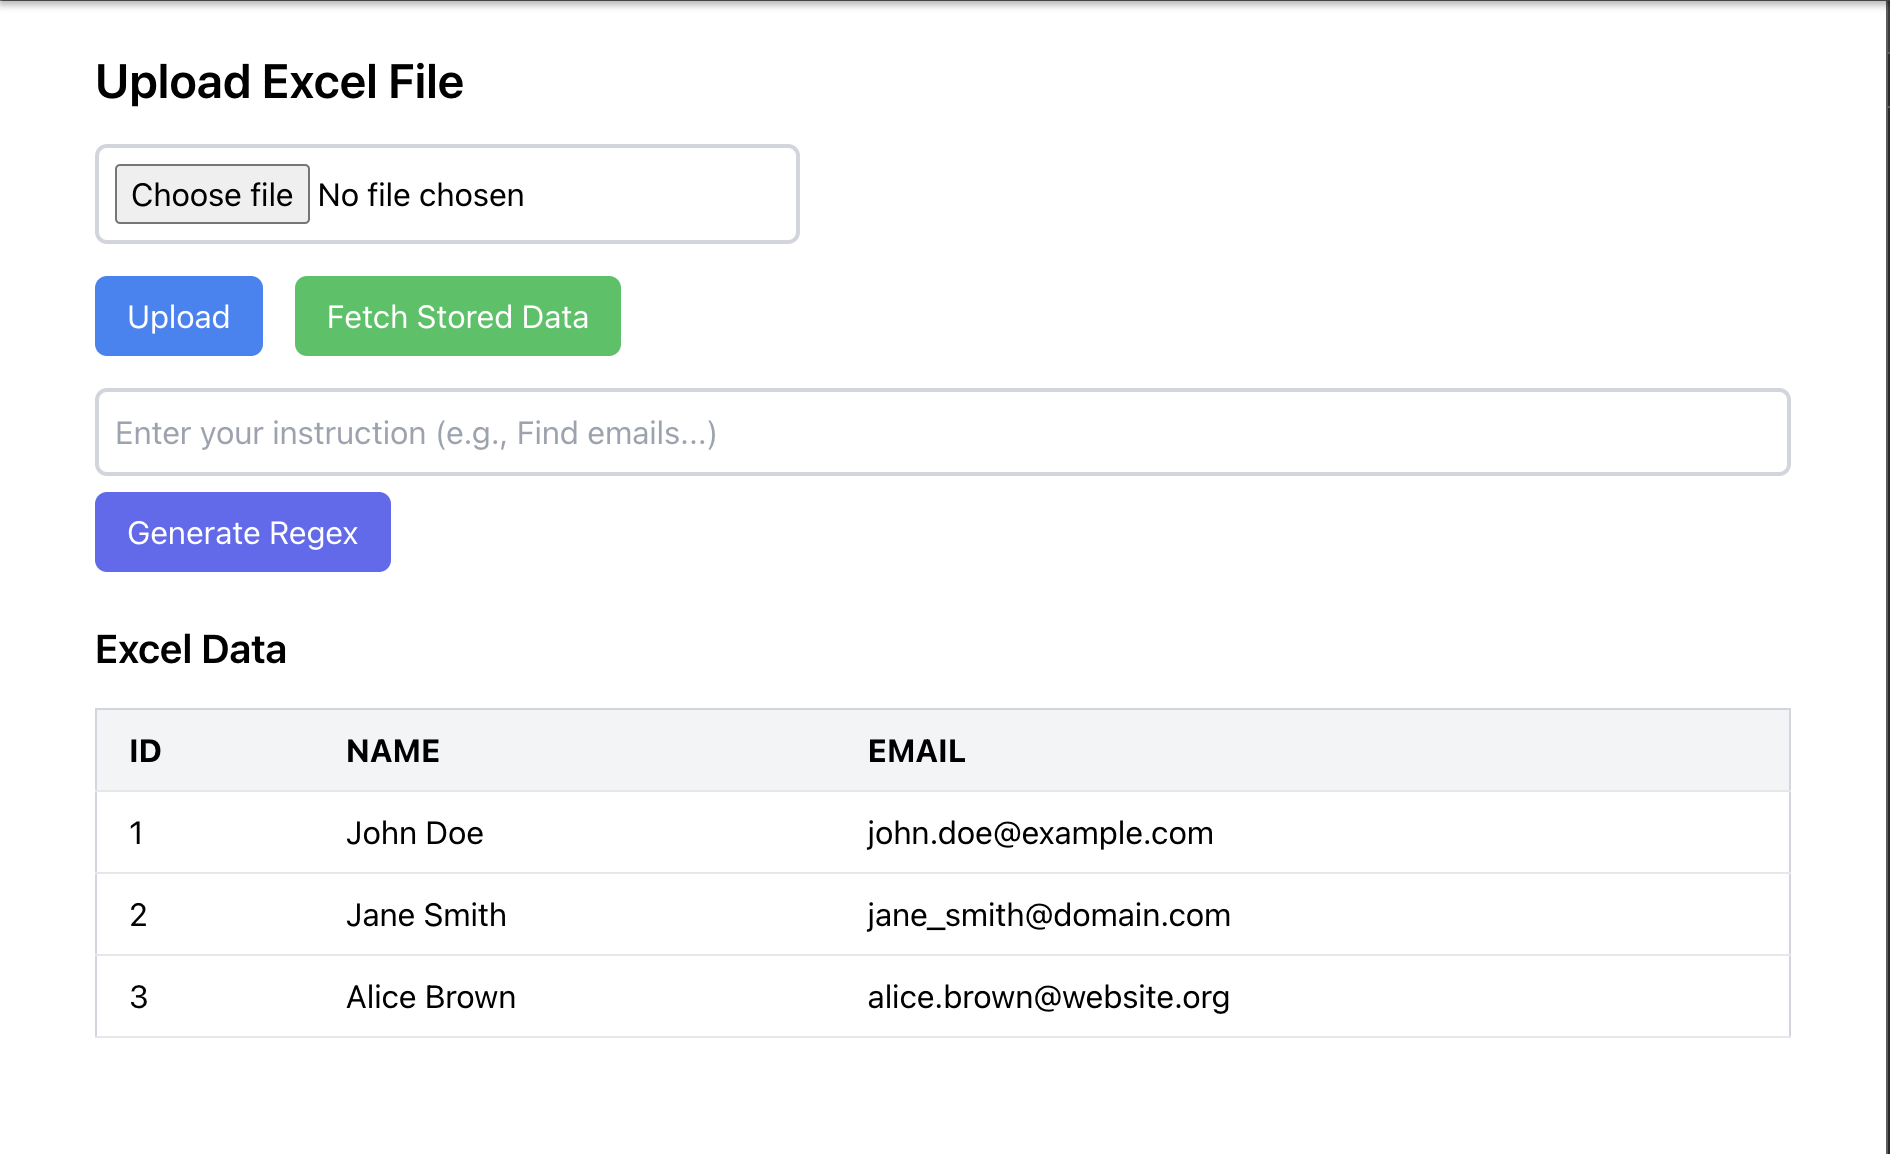
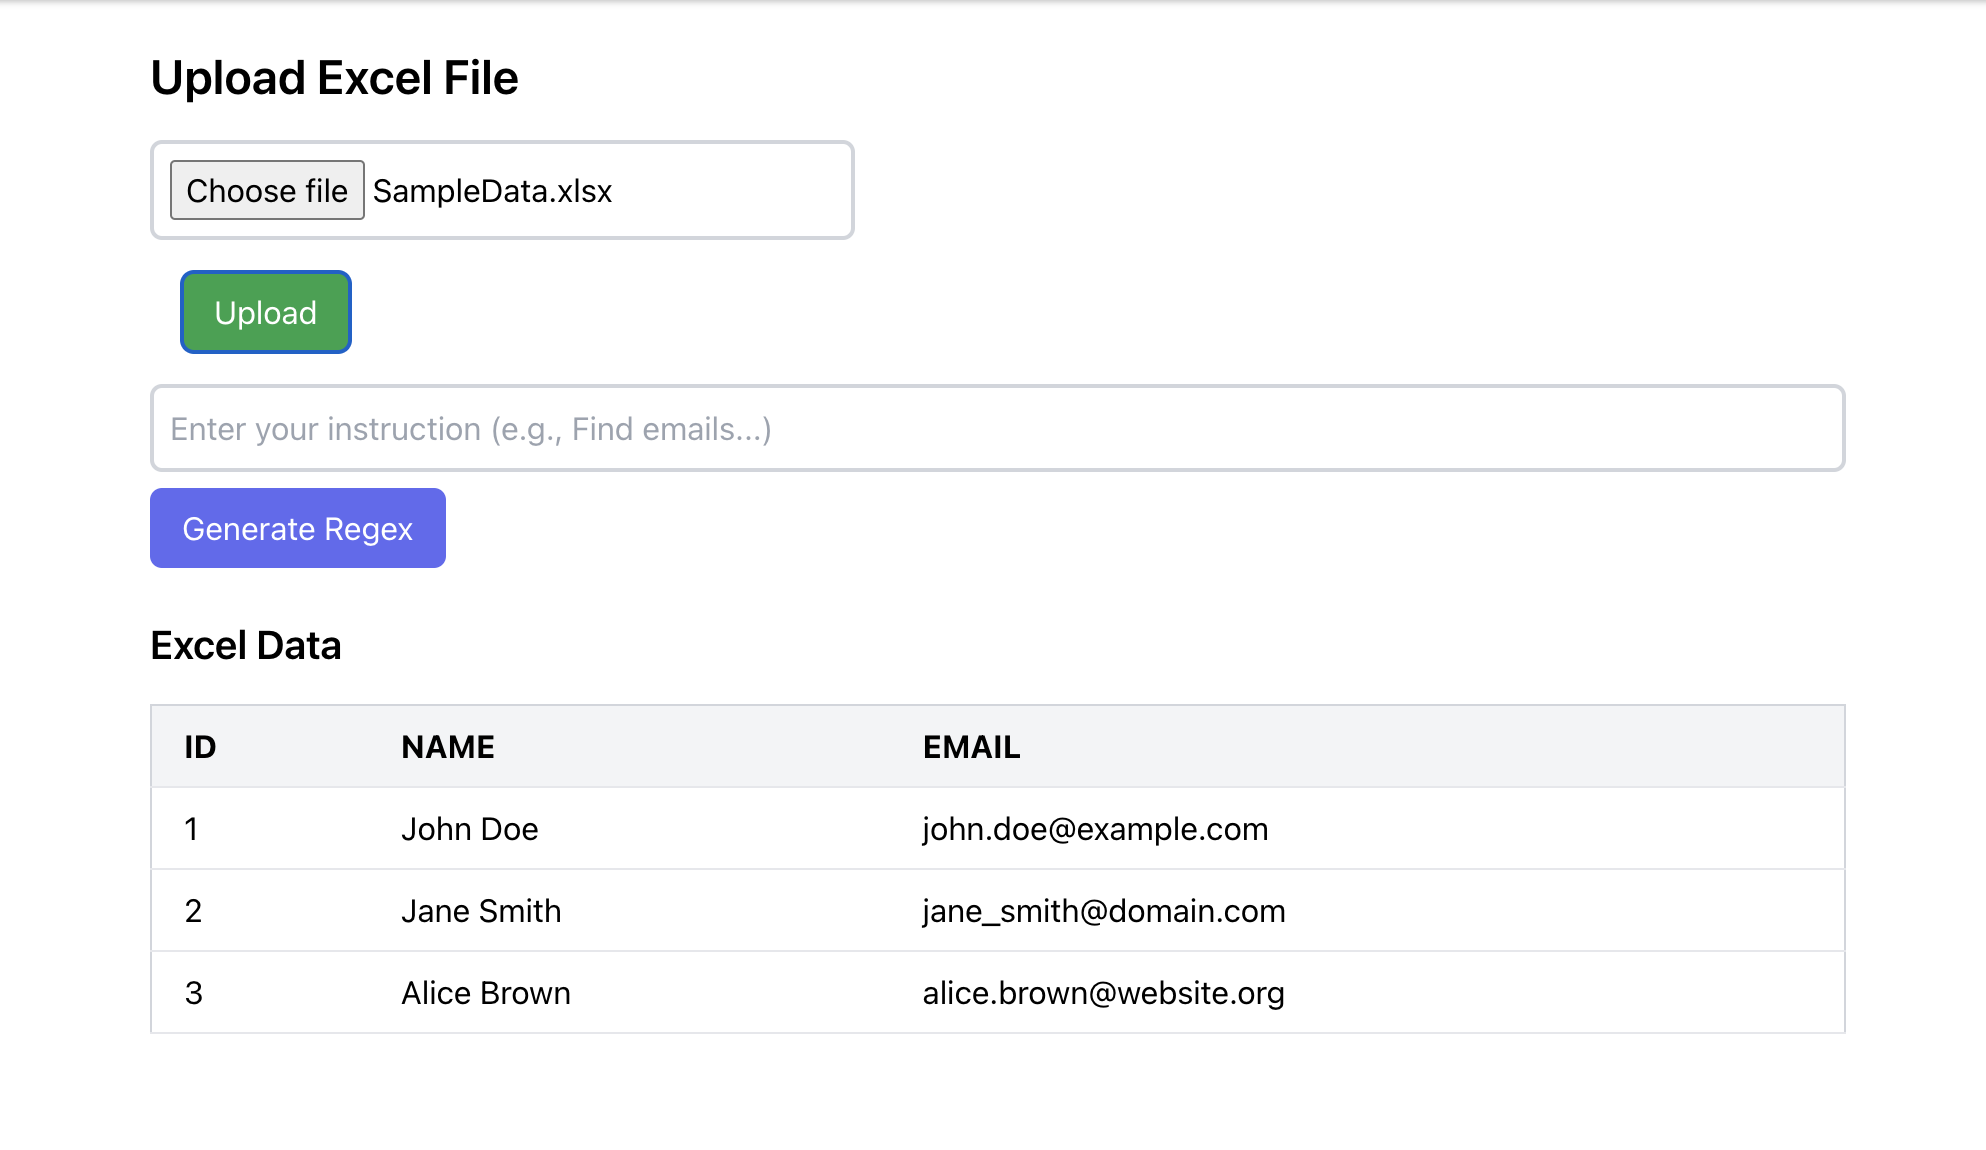
Refactored prompt, structured the README.md file, removed commented out code

diff --git a/frontend/src/App.js b/frontend/src/App.js
@@ -23,19 +23,25 @@ function App() {
             const res = await axios.post('http://127.0.0.1:8000/upload/', formData, {
                 headers: { 'Content-Type': 'multipart/form-data' },
             });
-            setData(res.data.data);
+
+            if (typeof(res.data.data) != "undefined") {
+                setData(res.data.data);
+            }
+            else {
+                let jsonString = res.data;
+                let fixedJsonString = jsonString.replace(/NaN/g, "null");
+                try {
+                    let jsonData = JSON.parse(fixedJsonString);
+                    setData(jsonData.data);
+                } catch (error) {
+                    console.error("Error parsing JSON:", error);
+                }
+            }
+            
         } catch (error) {
             console.error(error);
         }
     };
-
-    // const fetchData = async () => {
-    //     setRegex("");
-    //     setReplace("");
-    //     setIsTextVisible(false);
-    //     const res = await axios.get('http://127.0.0.1:8000/data/');
-    //     setData(res.data.data);
-    // };
 
     const handleGenerateRegex = async () => {
         setLoading(true);
@@ -100,18 +106,6 @@ function App() {
                 >
                     Upload
                 </button>
-                {/* <button 
-                    onClick={uploadFile} 
-                    className="bg-blue-500 text-white py-2 px-4 rounded-md hover:bg-blue-600"
-                >
-                    Upload
-                </button> */}
-                {/* <button 
-                    onClick={fetchData} 
-                    className="ml-4 bg-green-500 text-white py-2 px-4 rounded-md hover:bg-green-600"
-                >
-                    Fetch Stored Data
-                </button> */}
             </div>
 
             <div className="mb-4">

diff --git a/backend/regexapp/views.py b/backend/regexapp/views.py
@@ -48,18 +48,6 @@ def upload_excel(request):
 
     default_storage.delete(file_path)
     return JsonResponse({'data': data_store})
-
-
-@api_view(['GET'])
-def get_stored_data(request):
-    return JsonResponse({'data': data_store})
-
-def is_valid_regex(pattern):
-    try:
-        re.compile(pattern)
-        return True
-    except re.error:
-        return False
     
 @csrf_exempt
 def generate_regex(request):
@@ -129,10 +117,10 @@ def generate_regex_from_desc(description, model="mistral"):
     print("Waiting for Regex Response...")
     
     prompt = (
-        f"I want you to act as a regex generator. Your role is to convert the following natural language query to a regular expression with valid word boundary '\b' (regex):{description}"
+        f"I want you to act as a regex generator. Your role is to convert the following natural language query to a regular expression with valid word boundary on both ends '\b <your_regex> \b' (regex):{description}"
         f"You should provide the regular expressions in a format that can be easily copied and pasted into a regex-enabled text editor or programming language. Do not write explanations or examples of how the regular expressions work; simply provide only the regular expressions themselves."
         f"Provide only the regex pattern as your response, without any explanation or additional text. Regex should be strictly valid without double backslashes or domain matching issues!"
-        f"Return the response strictly in JSON format as: {{'regex_pattern': '<your_regex>'}} and no other explanation in the response."
+        f"Return the response strictly in JSON format as: {{'regex_pattern': '\b<your_regex>\b'}} and no other explanation in the response. Regex should have word boundary on both sides!"
     )
     
     response = ollama.chat(model=model, messages=[

diff --git a/backend/backend/urls.py b/backend/backend/urls.py
@@ -16,10 +16,9 @@ Including another URLconf
 """
 from django.contrib import admin
 from django.urls import path
-from regexapp.views import upload_excel, get_stored_data, generate_regex
+from regexapp.views import upload_excel, generate_regex
 
 urlpatterns = [
     path('upload/', upload_excel, name='upload_excel'),
-    path('data/', get_stored_data, name='get_stored_data'),
     path('generate_regex/', generate_regex, name='generate_regex'),
 ]

diff --git a/README.md b/README.md
@@ -9,6 +9,13 @@ Ensure that you have the following installed:
 - **Python** (use `python` or `python3` based on your installation)
 - **Node.js** and **npm**
 
+- **Based on the LLM you are using -** 
+
+    ```bash
+     ollama pull mistral
+     ```
+**Note**: I'm using `mistral` for **regex generation** and **verification** `google/flan-t5-large` for finding the **replacement word**.
+
 ## Setup Instructions
 
 Follow these steps to set up the project:
@@ -45,13 +52,7 @@ Follow these steps to set up the project:
 
    **Note**: Use `python3` instead of `python` if that's how it's installed on your system.
 
-- **Based on the LLM you are using -** 
-
-    ```bash
-     ollama pull deepseek-r1
-     ollama pull deepseek-r1:1.5b
-     ollama pull codellama
-     ```
+**Note**: Introduced a variable `enable_verfiy = False` in `regexapp\views.py` which helps in verifying the generated output. Set it to `True` if testing for verifying the generated output.   
 
 ## User Instructions for Upload and Regex Generation
 
@@ -70,11 +71,11 @@ Here are some example instructions:
   
 - **Find names starting with the character 'J'** in the **First Name** in the Name column and replace them with `'REDACTED'`.
 
-- **Find names with 'Brown'** as the **Last Name** in the **Name** column and replace them with `'REDACTED'`.
+- **Find names where Last Name is 'Brown'** in the **Name** column and replace them with `'REDACTED'`.
 
 - **Find names starting with 'A'** in the **First Name** in the Name column and replace them with `'REDACTED'`.
 
-- **Find names ending with character 'e'** in the **Last Name** in the **Name** column and replace them with `'REDACTED'`.
+- **Find names where Last Name ends with 'e'** in the **Name** column and replace them with `'REDACTED'`.
 
 - **Find names starting with 'Jane'** as the **First Name** in the **Name** column and replace them with `'REDACTED'`.
 
@@ -82,6 +83,8 @@ Here are some example instructions:
 
 ### 3. **UI Display**:
 Once an instruction is entered, the generated regex pattern and replacement value will be displayed on the UI, showing the user what would be replaced in the file.
+
+### **You can use the SampleData.xlsx for testing!**
 
 ### UI Example:
 
